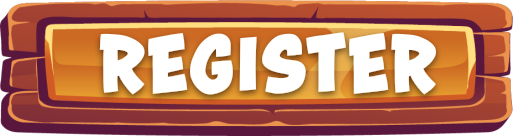
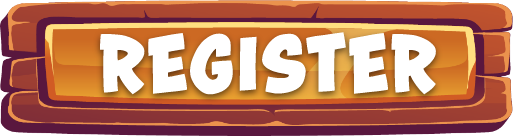
fix registration page
added png's

diff --git a/lib/Screens/registrationScreen.dart b/lib/Screens/registrationScreen.dart
@@ -121,11 +121,10 @@ class RegistrationScreenState extends State<RegistrationScreen>{
 
      Positioned(top: 0.20 * size.height,left: 0.28 * size.width, child:SvgPicture.asset('assets/WoodenTable.svg',
      height: 0.62 * size.height,width: 0.25 * size.width ,fit: BoxFit.fitWidth)),
-    Positioned(top: 0.15 * size.height,left: 0.272 * size.width, child: Image.asset('assets/Buttons_background.png',
+
+    Positioned(top: 0.132* size.height,left: 0.272 * size.width, child: Image.asset('assets/SignInLogo.png',
     height: 0.15 * size.height,width: 0.45 * size.width ,fit: BoxFit.fitWidth)),
 
-    Positioned(top: 0.12 * size.height,left: 0.425 * size.width, child: Image.asset('assets/sign in.png',
-    height: 0.15 * size.height,width: 0.12 * size.width ,fit: BoxFit.fitWidth)),
      Visibility(child:
      Positioned(left: size.width * 0.4, top: size.height * 0.66, child: Container(width: 0.2 * size.width,
          height: 0.25 * size.height, child:
@@ -194,7 +193,7 @@ class RegistrationScreenState extends State<RegistrationScreen>{
           height: 0.25 * size.height, child:
           GestureDetector(
 
-              child: Image.asset('assets/sign in.png',width: 0.2 * size.width, height: 0.25 * size.height),
+              child: Image.asset('assets/SignInButton.png',width: 0.2 * size.width, height: 0.25 * size.height),
               onTap: () {
                 setState(()  {
                   /// user is not logged in
@@ -257,8 +256,9 @@ class RegistrationScreenState extends State<RegistrationScreen>{
                     Container();
 
                     signInWithGoogle().whenComplete(() {
-                      ///TODO CHANGE TO THIS :
-                      /// Navigator.pop(context, Tuple2(_usernameController.text,_nicknameController.text));
+
+                       Navigator.pop(context, Tuple2(_usernameController.text,_nicknameController.text));
+                      /*
                     Navigator.of(context).push(
                     MaterialPageRoute(
                     builder: (context) {
@@ -266,6 +266,8 @@ class RegistrationScreenState extends State<RegistrationScreen>{
                     },
                     ),
                     );
+
+                    */
                     });
               },
             ))),

diff --git a/lib/main.dart b/lib/main.dart
@@ -41,7 +41,8 @@ class MyApp extends StatelessWidget {
       ),
         debugShowCheckedModeBanner: false,
         home: Scaffold(resizeToAvoidBottomInset: false, backgroundColor: Colors.black,extendBody: true,
-        body: entryScreen(numPlayers: 3,) ,),);//test2()
+        body: RegistrationScreen(),),);
+        //body: entryScreen(numPlayers: 3,) ,),);//test2()
   }
 }
 
